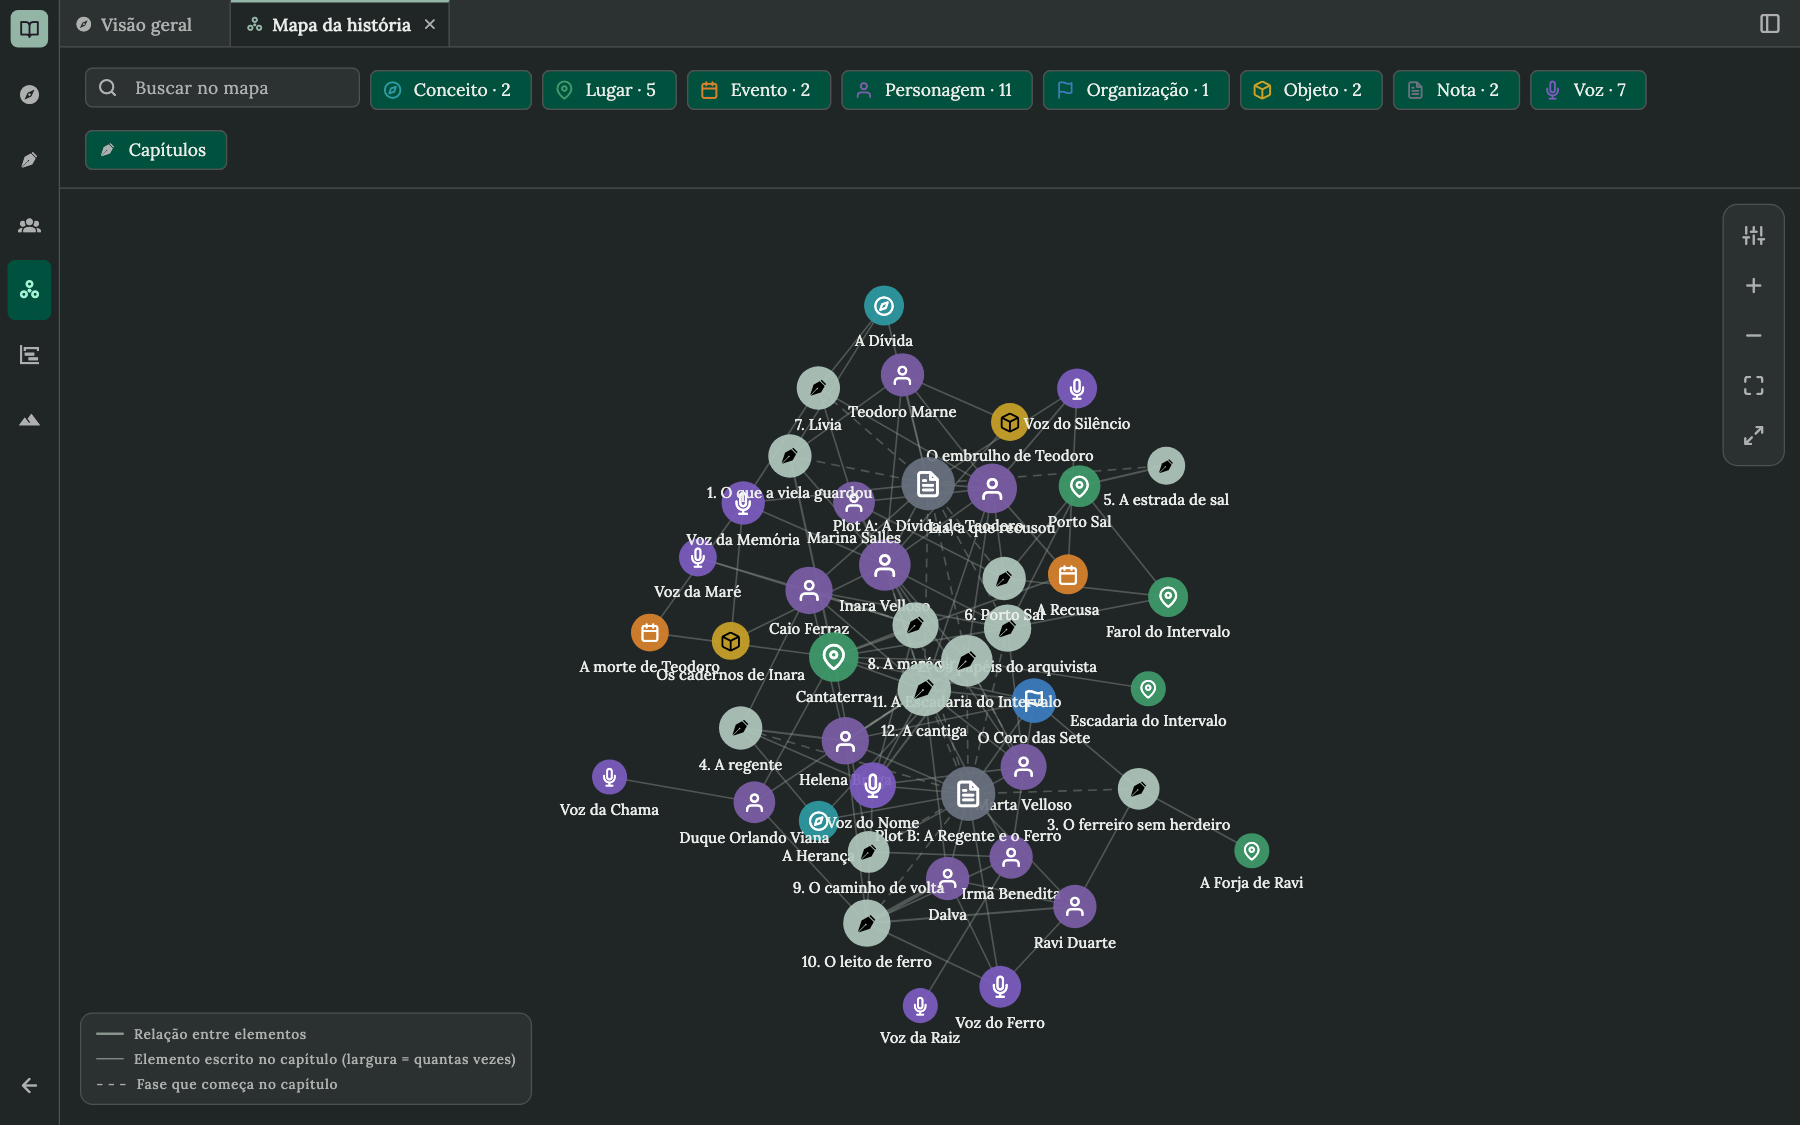
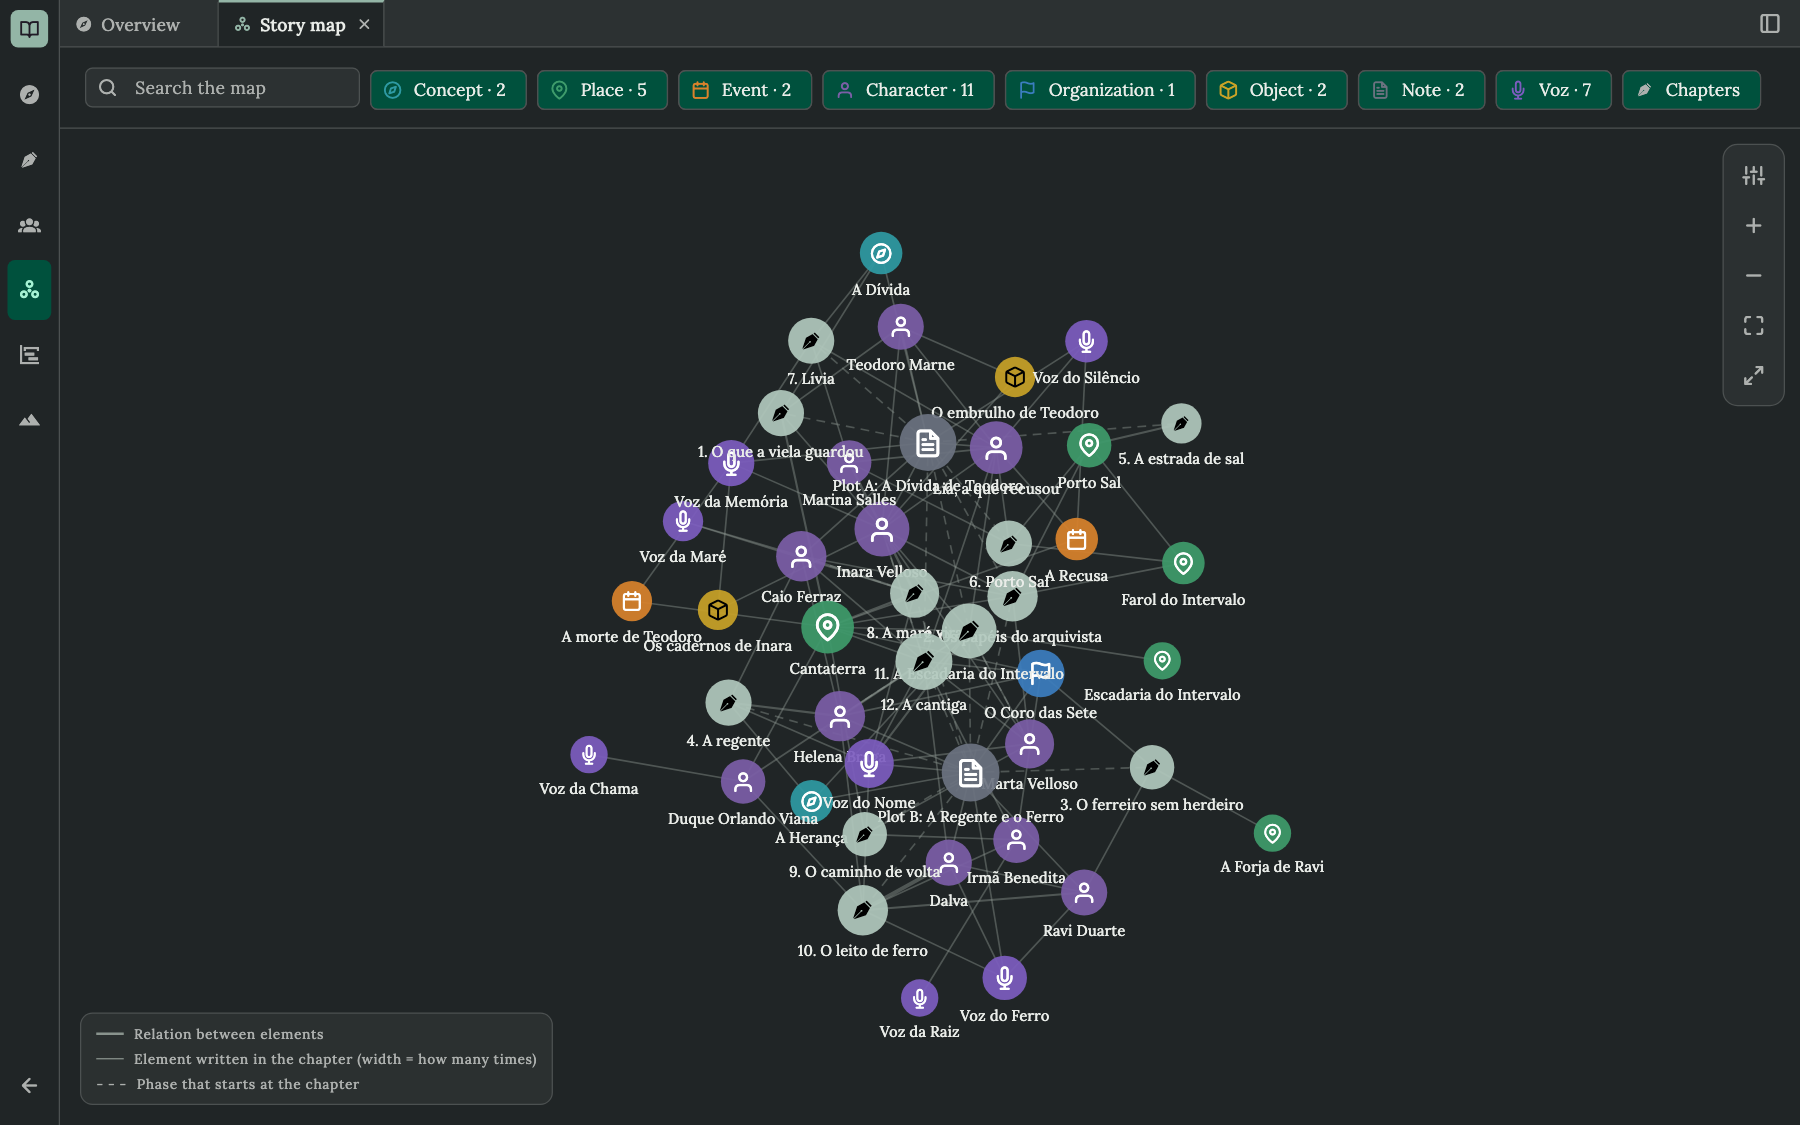
docs: render the README screenshots with the English interface
Add the library and the light theme screenshots and regenerate the others
from the bundled sample story in English.

diff --git a/tool/screenshots/readme_test.dart b/tool/screenshots/readme_test.dart
@@ -1,5 +1,6 @@
-// Renders the screenshots shown in the README from the bundled sample story
-// ("Herdeiros do Silêncio") and saves them in docs/screenshots/.
+// Renders the screenshots shown in the README (English interface) from the
+// bundled sample story ("Herdeiros do Silêncio") and saves them in
+// docs/screenshots/.
 //
 //   tool/screenshots/readme.sh
 //
@@ -7,11 +8,22 @@
 // ignore_for_file: invalid_use_of_visible_for_testing_member
 import 'dart:io';
 
+import 'dart:ui' show Locale;
+
 import 'package:flutter_test/flutter_test.dart';
 import 'package:plotcraft/core/fonts/project_font_loader.dart';
 import 'package:plotcraft/core/fonts/system_fonts.dart';
 import 'package:plotcraft/core/theme/theme_definition.dart';
+import 'package:plotcraft/app/app_commands.dart';
+import 'package:plotcraft/core/storage/local_storage.dart';
+import 'package:plotcraft/features/preferences/stores/theme_store.dart';
+import 'package:plotcraft/features/project_creation/stores/project_creation_store.dart';
+import 'package:plotcraft/features/projects/data/project_repository.dart';
 import 'package:plotcraft/features/projects/data/sample_project_installer.dart';
+import 'package:plotcraft/features/projects/presentation/project_home_screen.dart';
+import 'package:plotcraft/features/projects/stores/project_store.dart';
+import 'package:plotcraft_core/features/projects/data/project_creation_service.dart';
+import 'package:shared_preferences/shared_preferences.dart';
 import 'package:plotcraft/features/project_workspace/domain/workspace_tab.dart';
 import 'package:plotcraft/features/project_workspace/presentation/shell/workspace_shell.dart';
 import 'package:plotcraft/features/project_workspace/presentation/workspace_actions.dart';
@@ -79,6 +91,7 @@ void main() {
         onBack: () {},
       ),
       theme: builtInThemes.firstWhere((t) => t.id == theme),
+      locale: const Locale('en'),
       size: _size,
     );
     // The inspector would show a temporary folder path.
@@ -129,5 +142,54 @@ void main() {
     controller.openManuscript(controller.store.book.chapters[6].id);
     await settle(tester, rounds: 12);
     await shot(tester, 'editor', directory: _out);
+  });
+
+  testWidgets('readme: tema claro', (tester) async {
+    final controller = await open(tester, theme: 'paper');
+    controller.openReading(controller.store.book.chapters[3].id);
+    await settle(tester, rounds: 10);
+    await shot(tester, 'tema-claro', directory: _out);
+  });
+
+  testWidgets('readme: biblioteca', (tester) async {
+    final root = await tester.runAsync(
+      () => Directory.systemTemp.createTemp('plotcraft-readme-'),
+    ) as Directory;
+    addTearDown(() => root.deleteSync(recursive: true));
+    late StoryProject project;
+    await tester.runAsync(() async {
+      final folder = await SampleProjectInstaller().install(root.path);
+      project = (await const ProjectLibrary().discover(knownFolders: [folder]))
+          .single;
+    });
+    SharedPreferences.setMockInitialValues({});
+    final storage = LocalStorage(await SharedPreferences.getInstance());
+    final store = ProjectStore(
+      ProjectRepository(storage, ProjectCreationService()),
+    );
+    store.projects.add(project);
+    store.projectsRoot = root.path;
+    store.isLoaded = true;
+    final themes = ThemeStore(storage);
+    await tester.runAsync(themes.load);
+    final creation = ProjectCreationStore(
+      ProjectRepository(storage, ProjectCreationService()),
+      ProjectCreationService(),
+      store.addCreated,
+    );
+    await pumpApp(
+      tester,
+      ProjectHomeScreen(
+        projects: store,
+        creation: creation,
+        themes: themes,
+        storage: storage,
+        commands: AppCommands(),
+      ),
+      theme: builtInThemes.firstWhere((t) => t.id == 'midnight'),
+      locale: const Locale('en'),
+      size: _size,
+    );
+    await shot(tester, 'biblioteca', directory: _out);
   });
 }
